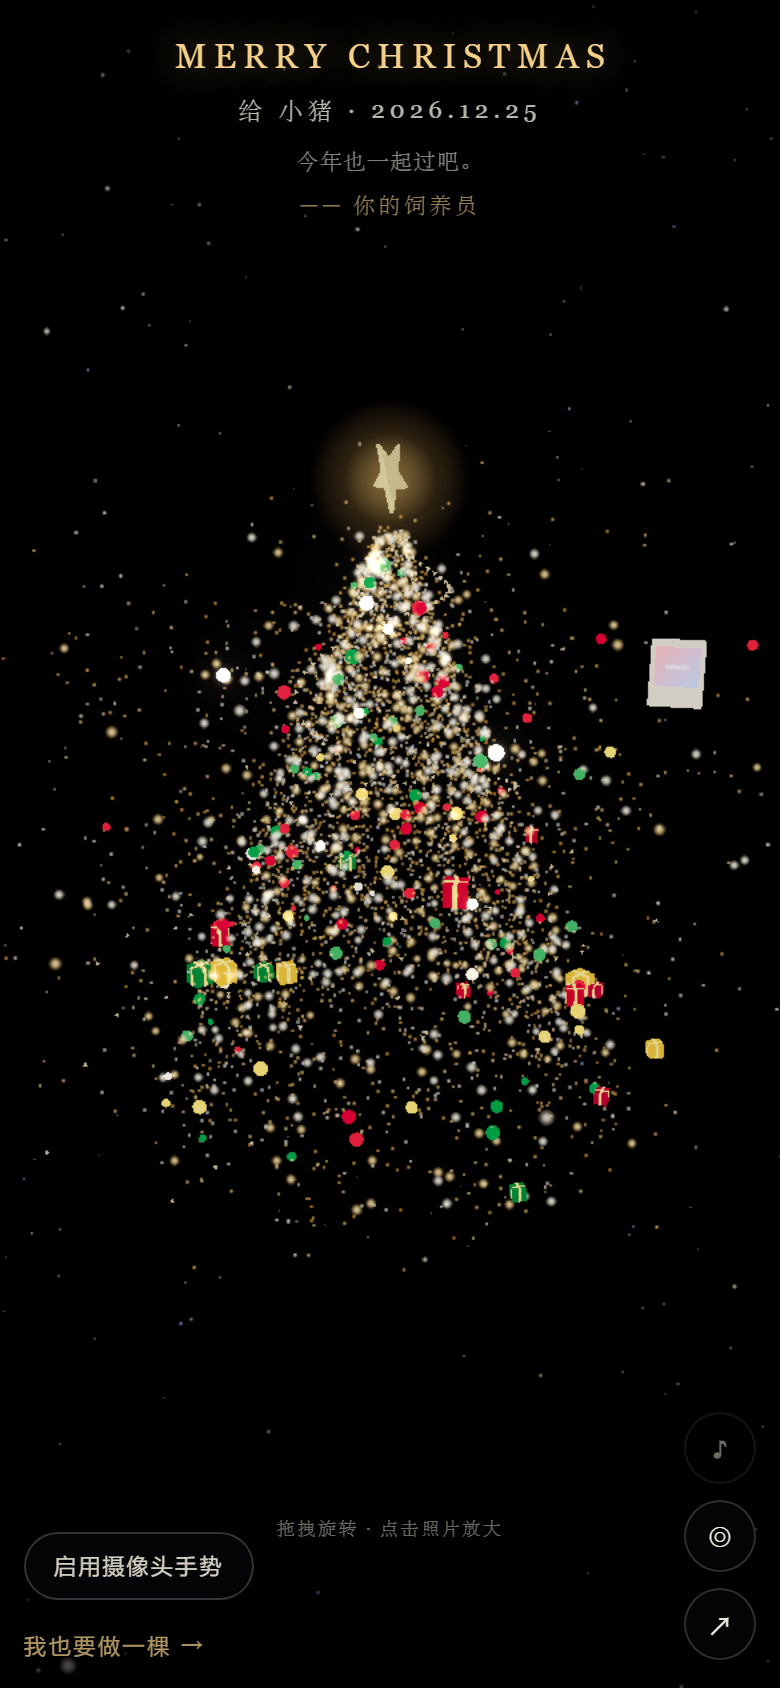
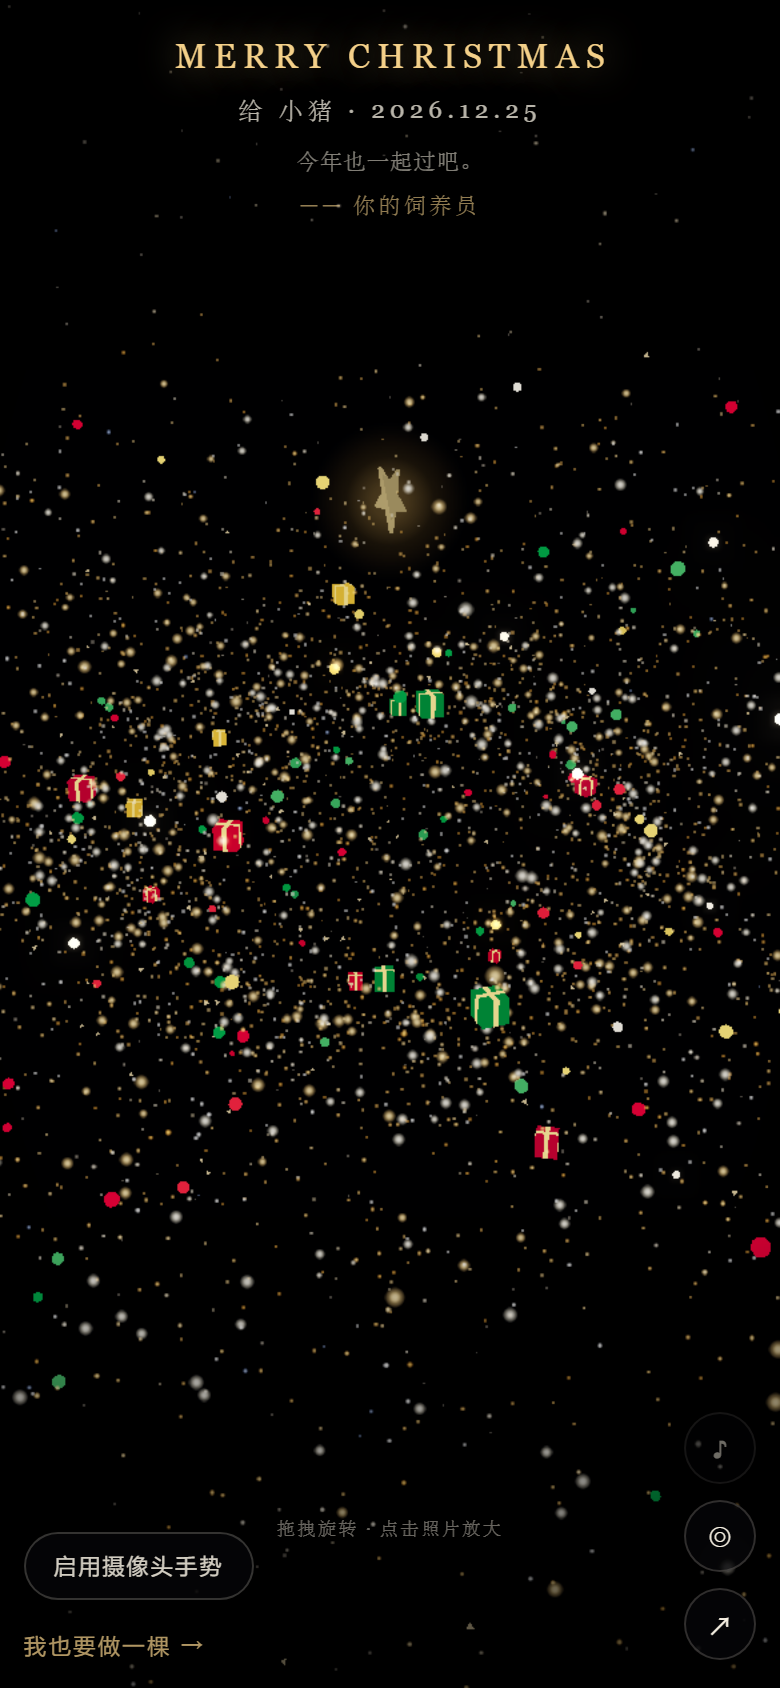
Match the reference gesture sensitivity and easing

diff --git a/js/main.js b/js/main.js
@@ -673,7 +673,7 @@ function applyCaption(progress) {
   for (let i = 0; i < set.count; i++) {
     const i3 = i * 3;
     const local = Math.min(1, Math.max(0, (progress - set.delays[i] * 0.3) / 0.7));
-    const eased = local * local * (3 - 2 * local);
+    const eased = 1 - Math.pow(1 - local, 5);
     array[i3] = set.sources[i3] + (set.targets[i3] - set.sources[i3]) * eased;
     array[i3 + 1] = set.sources[i3 + 1] + (set.targets[i3 + 1] - set.sources[i3 + 1]) * eased;
     array[i3 + 2] = set.sources[i3 + 2] + (set.targets[i3 + 2] - set.sources[i3 + 2]) * eased;
@@ -904,9 +904,9 @@ function setMode(mode) {
 function updateHint() {
   const gestures = !!camStream;
   let text = "";
-  if (app.mode === "focus") text = gestures ? "捏合或点击任意处返回" : "点击任意处返回";
-  else if (app.mode === "galaxy") text = gestures ? "张开手掌环绕 · 捏合放大 · 握拳收回" : "拖拽旋转 · 点击照片放大";
-  else text = gestures ? "张开手掌散开 · 握拳收回 · 捏合放大" : "点击空白处散开 · 点击照片查看";
+  if (app.mode === "focus") text = "点击任意处返回";
+  else if (app.mode === "galaxy") text = gestures ? "张开手掌环绕 · 握拳收回 · 点击照片放大" : "拖拽旋转 · 点击照片放大";
+  else text = gestures ? "张开手掌散开 · 握拳收回" : "点击空白处散开 · 点击照片查看";
   $("hint").textContent = text;
 }
 
@@ -984,8 +984,8 @@ function updateTransforms(dt) {
   const idle = app.mode === "tree";
   for (let i = 0; i < particles.count; i++) {
     const i3 = i * 3;
-    const local = Math.min(1, Math.max(0, (progress - particles.delays[i] * 0.5) / 0.62));
-    const eased = local * local * (3 - 2 * local);
+    const local = Math.min(1, Math.max(0, (progress - particles.delays[i] * 0.15) / 0.85));
+    const eased = 1 - Math.pow(1 - local, 5);
     const breathe = idle ? Math.sin(time * particles.speeds[i] + particles.phases[i]) * 0.02 : 0;
     let x = particles.tree[i3] + (particles.galaxy[i3] - particles.tree[i3]) * eased;
     let y = particles.tree[i3 + 1] + (particles.galaxy[i3 + 1] - particles.tree[i3 + 1]) * eased + breathe;
@@ -1001,8 +1001,8 @@ function updateTransforms(dt) {
   const sparkPos = sparkleSystem.geometry.attributes.position.array;
   for (let i = 0; i < spark.count; i++) {
     const i3 = i * 3;
-    const local = Math.min(1, Math.max(0, (progress - spark.delays[i] * 0.5) / 0.62));
-    const eased = local * local * (3 - 2 * local);
+    const local = Math.min(1, Math.max(0, (progress - spark.delays[i] * 0.15) / 0.85));
+    const eased = 1 - Math.pow(1 - local, 5);
     const source = Math.floor(i * (COUNT.particles / spark.count)) % COUNT.particles;
     let x = spark.tree[source * 3] + (spark.galaxy[source * 3] - spark.tree[source * 3]) * eased;
     let y = spark.tree[source * 3 + 1] + (spark.galaxy[source * 3 + 1] - spark.tree[source * 3 + 1]) * eased;
@@ -1018,8 +1018,8 @@ function updateTransforms(dt) {
   const dummy = ornament.dummy;
   for (let i = 0; i < ornament.data.length; i++) {
     const item = ornament.data[i];
-    const local = Math.min(1, Math.max(0, (progress - item.delay * 0.4) / 0.65));
-    const eased = local * local * (3 - 2 * local);
+    const local = Math.min(1, Math.max(0, (progress - item.delay * 0.15) / 0.85));
+    const eased = 1 - Math.pow(1 - local, 5);
     const x = item.treePos[0] + (item.galaxyPos[0] - item.treePos[0]) * eased;
     const y = item.treePos[1] + (item.galaxyPos[1] - item.treePos[1]) * eased;
     const z = item.treePos[2] + (item.galaxyPos[2] - item.treePos[2]) * eased;
@@ -1036,8 +1036,8 @@ function updateTransforms(dt) {
   const giftDummy = gift.dummy;
   for (let i = 0; i < gift.data.length; i++) {
     const item = gift.data[i];
-    const local = Math.min(1, Math.max(0, (progress - item.delay * 0.4) / 0.65));
-    const eased = local * local * (3 - 2 * local);
+    const local = Math.min(1, Math.max(0, (progress - item.delay * 0.15) / 0.85));
+    const eased = 1 - Math.pow(1 - local, 5);
     const x = item.treePos[0] + (item.galaxyPos[0] - item.treePos[0]) * eased;
     const y = item.treePos[1] + (item.galaxyPos[1] - item.treePos[1]) * eased;
     const z = item.treePos[2] + (item.galaxyPos[2] - item.treePos[2]) * eased;
@@ -1062,8 +1062,8 @@ function updateTransforms(dt) {
   const ribbon = ribbonSystem.userData;
   for (let i = 0; i < ribbon.data.length; i++) {
     const item = ribbon.data[i];
-    const local = Math.min(1, Math.max(0, (progress - item.delay * 0.5) / 0.6));
-    const eased = local * local * (3 - 2 * local);
+    const local = Math.min(1, Math.max(0, (progress - item.delay * 0.2) / 0.8));
+    const eased = 1 - Math.pow(1 - local, 5);
     ribbon.dummy.position.set(
       item.treePos[0] + (item.galaxyPos[0] - item.treePos[0]) * eased,
       item.treePos[1] + (item.galaxyPos[1] - item.treePos[1]) * eased,
@@ -1166,7 +1166,7 @@ function loop(now) {
   app.time += dt;
 
   if (app.mode === "tree") {
-    app.progress = Math.max(0, app.progress - dt / 1.4);
+    app.progress = Math.max(0, app.progress - dt / 2.0);
   } else {
     app.progress = Math.min(1, app.progress + dt / 2.0);
   }
@@ -1477,13 +1477,11 @@ async function startGestures() {
   const hands = new window.Hands({ locateFile: file => `${base}/${file}` });
   hands.setOptions({
     maxNumHands: 1,
-    modelComplexity: LOW_POWER ? 0 : 1,
-    minDetectionConfidence: 0.55,
-    minTrackingConfidence: 0.45
+    modelComplexity: 1,
+    minDetectionConfidence: 0.6,
+    minTrackingConfidence: 0.5
   });
-  let candidate = "none";
-  let candidateSince = 0;
-  let lastFired = 0;
+  let gestureState = "closed";
   hands.onResults(results => {
     const marks = results.multiHandLandmarks;
     if (!marks || !marks.length) {
@@ -1495,34 +1493,15 @@ async function startGestures() {
     const lm = marks[0];
     hand.x = 1 - lm[9].x;
     hand.y = lm[9].y;
-    const spread = (a, b) => Math.hypot(lm[a].x - lm[b].x, lm[a].y - lm[b].y, lm[a].z - lm[b].z);
-    const pinch = spread(4, 8);
-    const extended = [8, 12, 16, 20].filter((tip, index) => lm[tip].y < lm[[5, 9, 13, 17][index]].y).length;
-    let gesture = "none";
-    if (pinch < 0.055) gesture = "pinch";
-    else if (extended >= 3) gesture = "open";
-    else if (extended <= 1) gesture = "fist";
-    const now = performance.now();
-    if (gesture !== candidate) {
-      candidate = gesture;
-      candidateSince = now;
-    }
-    if (gesture !== "none" && now - candidateSince > 180 && now - lastFired > 900) {
-      lastFired = now;
+    const spread = Math.hypot(lm[8].x - lm[4].x, lm[8].y - lm[4].y);
+    const gesture = spread > 0.28 ? "open" : "closed";
+    if (gesture !== gestureState) {
+      gestureState = gesture;
       if (gesture === "open" && app.mode === "tree") setMode("galaxy");
-      else if (gesture === "fist" && app.mode !== "tree") setMode("tree");
-      else if (gesture === "pinch") {
-        if (app.mode === "galaxy") {
-          const total = photoSystem ? photoSystem.cards.length : COUNT.photos;
-          const index = Math.floor(Math.random() * total);
-          focusPhoto(index);
-        } else if (app.mode === "focus") {
-          clearFocus();
-        }
-      }
+      else if (gesture === "closed" && app.mode !== "tree") setMode("tree");
     }
-    const labels = { open: "张开手掌", fist: "握拳", pinch: "捏合", none: "识别中" };
-    state.textContent = "手势已开启 · " + (labels[gesture] || "");
+    const labels = { open: "张开手掌", closed: "握拳" };
+    state.textContent = "手势已开启 · " + labels[gesture];
   });
   handsInstance = hands;
   const processFrame = async () => {

diff --git a/index.html b/index.html
@@ -212,7 +212,7 @@
   <p id="subtitle" class="subtitle"></p>
   <p id="messageLine" class="message-line"></p>
   <p id="signature" class="signature"></p>
-  <p id="hint" class="hint">张开手掌散开 · 握拳收回 · 捏合放大</p>
+  <p id="hint" class="hint">张开手掌散开 · 握拳收回</p>
 </header>
 
 <div class="dock">

diff --git a/README.md b/README.md
@@ -21,7 +21,7 @@
 ## 功能
 
 - **3D 粒子圣诞树**：暖金灯光、红绿彩球、礼物盒、树顶星，Bloom 泛光与暗角。
-- **手势交互**：MediaPipe Hands 识别张开 / 握拳 / 捏合；没有摄像头时可用点击与拖拽。
+- **手势交互**：MediaPipe Hands 识别张开 / 握拳，阈值与过渡参考早期版本；没有摄像头时可用点击与拖拽。
 - **绽放式散开**：点击后粒子平滑向四周绽开，整屏铺开。
 - **照片**：上传后自动压缩；树上是挂饰，散开后飞成星云；点击照片进入特写。
 - **每张照片一句文案**：特写时由粒子以艺术字（Zhi Mang Xing 行书）汇聚在照片上方。
